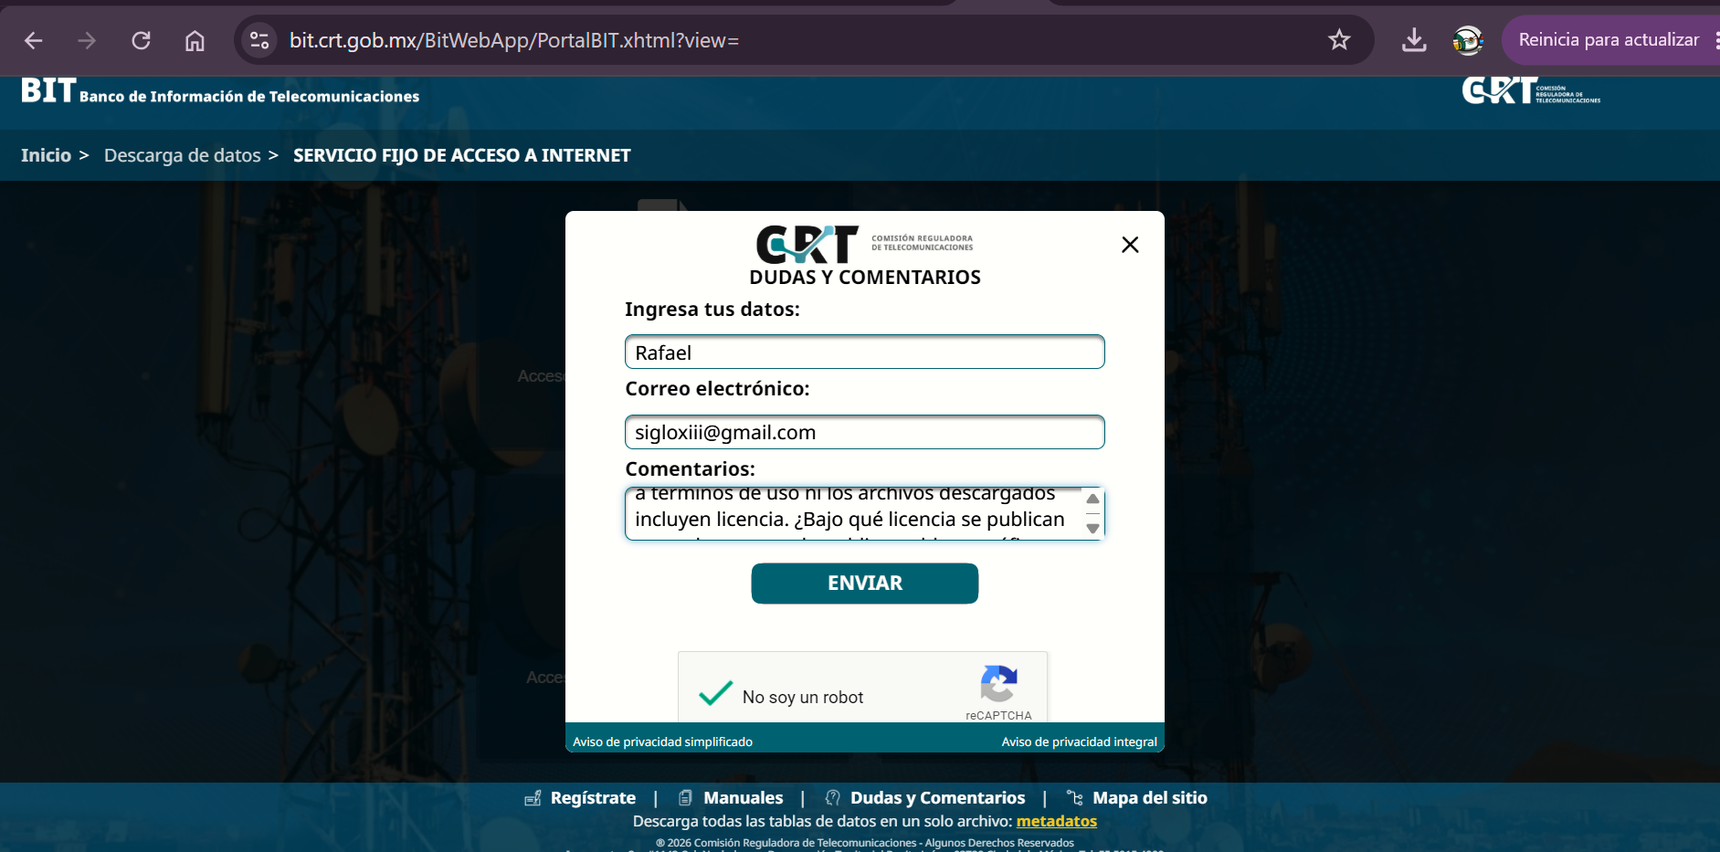
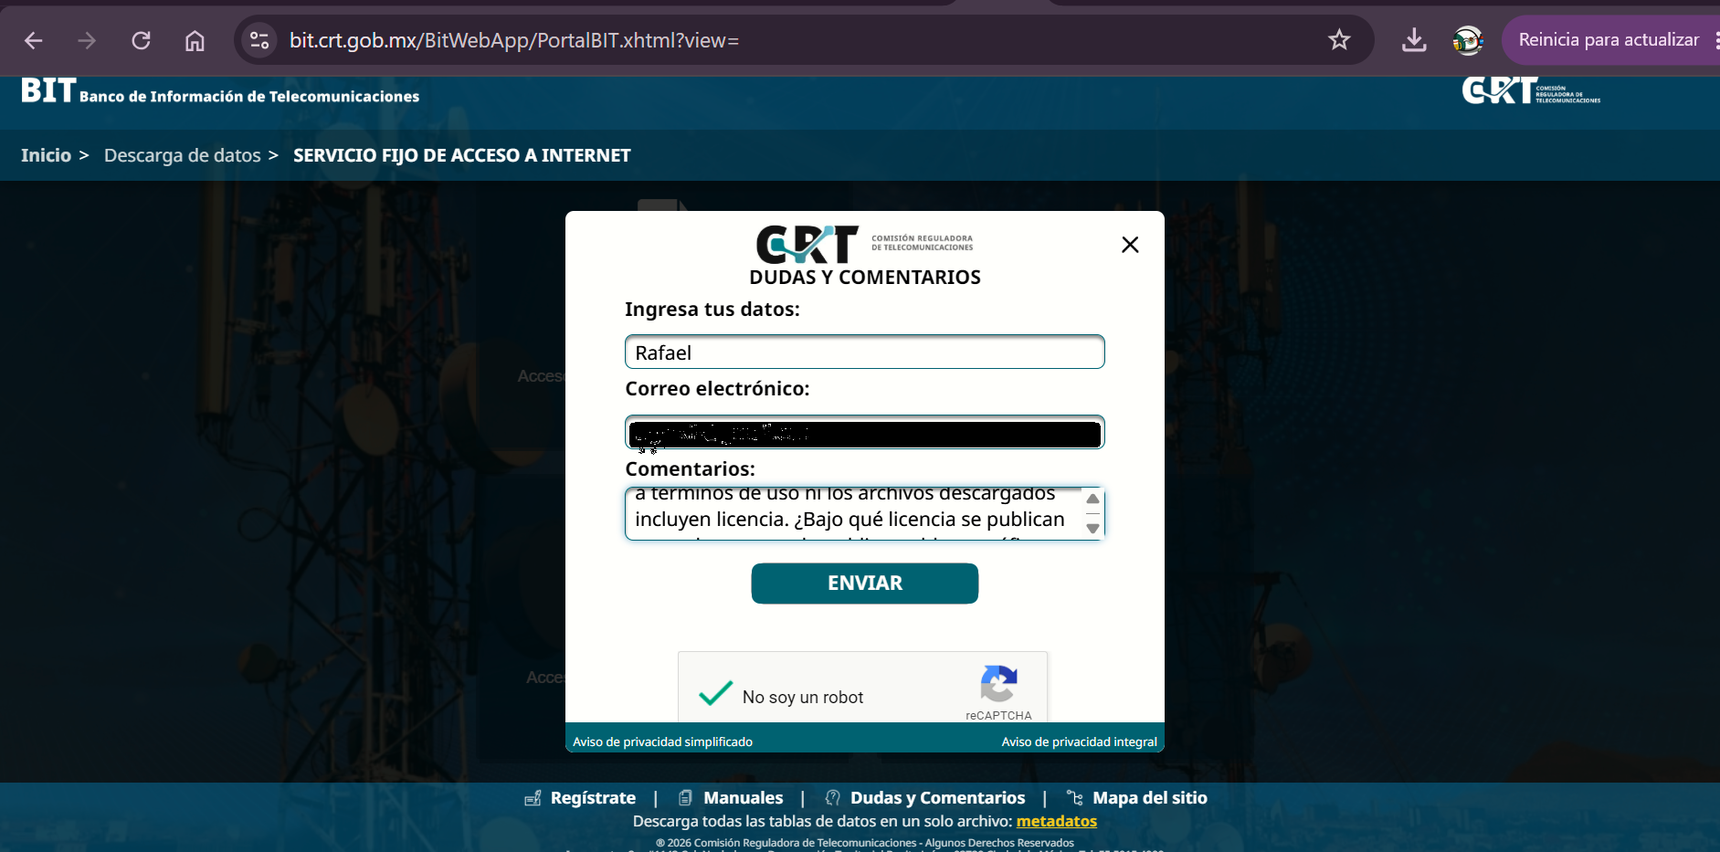
Add report cross-check script, fix stale docs and redact captures
Add sql/common/step_8b.sql with the report cross-checks (P1 to P6) and the pipeline row counts. Add the step 4 section and the P5/P6 evidence to the run log, update the docs index, mark Ookla as not used in the
README, rename README.ES.md to README.es.md so the links resolve, and
redact the email and the machine name from three captures.

Changed region(s): [[0.3388, 0.4973, 0.6468, 0.5284]]

diff --git a/README.ES.md b/README.ES.md
@@ -99,7 +99,7 @@ Las etapas de arriba describen cómo fluyen los datos. Las fases de abajo descri
 
 ---
 
-## Exploración inicial de los datos: México
+## Exploración de los datos: México
 
 La investigación de las fuentes candidatas está completa, y los cinco archivos de la PROFECO se descargaron y revisaron en Power Query. El archivo base (36,034 filas) se cargó en SQL Server y se perfiló con `step_2.sql`: los cuatro criterios de la compuerta de factibilidad se cumplen (decisión D1, aceptada el 2026-10-27). El BIT da los accesos de banda ancha fija por grupo operador y estado hasta diciembre de 2024, por lo que las tasas por 100,000 accesos se limitan a 2022 a 2024. La tabla del BIT se limpió en `clean.bit_access` (592,281 filas, una etiqueta de operador por fila), y los accesos de diciembre de Telmex, Izzi, Megacable y Total Play son los denominadores. La evidencia y los detalles de cada archivo están en [`docs/sources/MX_profeco.md`](docs/sources/MX_profeco.md).
 
@@ -112,7 +112,7 @@ La investigación de las fuentes candidatas está completa, y los cinco archivos
 | IFT *Manual de definiciones de los indicadores estadísticos de telecomunicaciones* (2018) | PDF | Definiciones de los indicadores del BIT y claves de las tablas ([enlace](https://www.ift.org.mx/sites/default/files/contenidogeneral/estadisticas/manualdefinicionesmarzo2018.pdf)) |
 | Reportes trimestrales "Soy Usuario" (IFT/CRT) | Agregados, PDF | Validación cruzada de los resultados |
 | Lineamientos de calidad de servicios fijos (IFT, 2020) | Umbrales regulatorios | Contexto para las referencias |
-| Ookla Open Data / M-Lab (opcional) | Mosaicos / registros de pruebas | Capa técnica opcional |
+| Ookla Open Data / M-Lab (opcional) | Mosaicos / registros de pruebas | No se usó: la capa técnica queda fuera del alcance |
 
 ### Columnas de la PROFECO (23, según el encabezado del archivo)
 
@@ -133,7 +133,7 @@ Los nombres difieren del diccionario de datos publicado (que usa mayúsculas, po
 
 - **Los nombres de proveedor varían** entre registros (por ejemplo, con y sin el sufijo corporativo), por lo que se requiere una tabla de mapeo de normalización.
 - **Formato de fecha:** el diccionario de datos documenta `dd-mm-yyyy`, pero el archivo usa texto con el año primero y guiones (`2022-01-03`), como se confirmó en `step_2.sql` (0 valores con otro formato). Todas las fechas se cargan como texto y se convierten en la capa clean.
-- **Actualizaciones retroactivas:** el publicador advierte que los datos históricos pueden cambiar. Se registrarán una copia congelada y la fecha de descarga.
+- **Actualizaciones retroactivas:** el publicador advierte que los datos históricos pueden cambiar. Las fechas de descarga y el SHA-256 de cada archivo están registrados en `docs/sources/`.
 - **Se publican cinco cortes** y no son versiones simples y crecientes unas de otras. El corte base es `junio_2026`, confirmado por una auditoría de traslape (decisión D4 en `docs/decisions.md`): contiene todos los casos de los tres cortes más antiguos.
 - **No hay una columna completa de tipo de servicio:** `giro` es una clasificación del proveedor y `problema_especial` nombra un servicio en solo el 27% de las filas. El análisis es a nivel de proveedor y lo fijo frente a lo móvil sale de un mapeo de marcas (decisión D7 en `docs/decisions.md`).
 - **Un proveedor por queja:** la base conserva una fila por ID de caso, así que una queja contra dos proveedores (por ejemplo, el operador y el fabricante del teléfono) aparece con uno de ellos. Alrededor del 0.3% de las quejas de operadores fijos puede verse afectado (decisión D4).
@@ -234,7 +234,7 @@ Los archivos crudos y el archivo de Power BI no se publican (decisiones D10 y D1
    - PROFECO, *Quejas en materia de telecomunicaciones*, recurso cerrado en junio de 2026 (`quejas_telecomunicaciones_2022_junio_2026.csv`).
    - CRT, BIT, tabla `TD_ACC_BAF_ITE_VA` (`TD_ACC_BAF_ITE_VA.csv`).
 2. **Ajustar las rutas.** Los scripts `step_1.sql`, `step_5.sql` (y `step_4.sql`, opcional) leen los archivos con una ruta absoluta; cámbiela a su carpeta `data/raw/` y dé permiso de lectura sobre esa carpeta a la cuenta del servicio de SQL Server.
-3. **Ejecutar los scripts en SSMS, en orden:** `step_0` a `step_8` (ver el orden de ejecución en `sql/README.md`). `step_2` y `step_4` son pasos de auditoría: la capa clean no depende de ellos. Cada script termina con revisiones; los valores esperados están en `docs/run_log.md`.
+3. **Ejecutar los scripts en SSMS, en orden:** `step_0` a `step_8` (ver el orden de ejecución en `sql/README.md`) y después `step_8b`, que repite las revisiones cruzadas del reporte y comprueba las filas de todo el pipeline (cada fila debe mostrar OK). `step_2` y `step_4` son pasos de auditoría: la capa clean no depende de ellos. Cada script termina con revisiones; los valores esperados están en `docs/run_log.md`.
 
 | Objeto | Filas esperadas |
 |---|---|
@@ -242,7 +242,8 @@ Los archivos crudos y el archivo de Power BI no se publican (decisiones D10 y D1
 | `stg.bit_acc_baf`, `clean.bit_access` | 592,281 |
 | `mart.fact_accesses` | 19,840 |
 | `mart.dim_date`, `dim_state`, `dim_operator`, `dim_brand`, `dim_reason`, `dim_outcome` | 5,113; 33; 5; 190; 176; 39 |
-| `mart.v_duration_cases` | 12,833 |
+| `mart.v_duration_cases` (todas las marcas fijas) | 12,917 |
+| `mart.v_duration_cases` con `is_main_operator = 1` (los cuatro operadores del reporte) | 12,833 |
 
 4. **Construir el reporte.** En Power BI Desktop, conectar a `.\SQLEXPRESS`, base de datos `complaint_sla`, en modo Import, cargar las ocho tablas de `mart` y seguir `powerbi/build_guide.md` (modelo, 26 medidas, páginas de validación y las seis páginas del reporte). Cada medida tiene un valor de referencia de SQL para comparar.
 5. **Verificar el resultado** contra el PDF `powerbi/complaint_sla_report.pdf` y las capturas en `docs/img/` (`powerbi_page_01.png` a `powerbi_page_06.png`).

diff --git a/README.md b/README.md
@@ -98,7 +98,7 @@ The pipeline stages above describe how the data flow. The project phases below d
 
 ---
 
-## Initial dataset exploration: México
+## Dataset exploration: México
 
 Desk research on the candidate sources is complete, and the five PROFECO files were downloaded and inspected in Power Query. The base file (36,034 rows) was loaded into SQL Server and profiled with `step_2.sql`: the four criteria of the feasibility gate are met (decision D1, accepted on 2026-10-27). BIT gives fixed broadband accesses by operator group and state up to December 2024, so rates per 100,000 accesses are limited to 2022 to 2024. The BIT table was cleaned into `clean.bit_access` (592,281 rows, one operator label per row), and the December accesses of Telmex, Izzi, Megacable and Total Play are the denominators. The evidence and the details of each file are in [`docs/sources/MX_profeco.md`](docs/sources/MX_profeco.md).
 
@@ -111,7 +111,7 @@ Desk research on the candidate sources is complete, and the five PROFECO files w
 | IFT *Manual de definiciones de los indicadores estadísticos de telecomunicaciones* (2018) | PDF | Definitions of the BIT indicators and table keys ([link](https://www.ift.org.mx/sites/default/files/contenidogeneral/estadisticas/manualdefinicionesmarzo2018.pdf)) |
 | "Soy Usuario" quarterly reports (IFT/CRT) | Aggregated, PDF | Cross-validation of results |
 | Fixed-service quality guidelines (IFT, 2020) | Regulatory thresholds | Context for benchmarks |
-| Ookla Open Data / M-Lab (optional) | Tiles / test records | Optional technical layer |
+| Ookla Open Data / M-Lab (optional) | Tiles / test records | Not used: the technical layer is out of scope |
 
 ### PROFECO columns (23, as found in the file header)
 
@@ -132,7 +132,7 @@ The names differ from the published data dictionary (which uses upper case, for 
 
 - **Provider names vary** between records (for example, with and without the corporate suffix), so a normalization mapping table is required.
 - **Date format:** the data dictionary documents `dd-mm-yyyy`, but the file uses year-first text with dashes (`2022-01-03`), as confirmed in `step_2.sql` (0 values with another format). All dates are loaded as text and converted in the clean layer.
-- **Retroactive updates:** the publisher warns that historical data may change. A frozen copy and the download date will be recorded.
+- **Retroactive updates:** the publisher warns that historical data may change. The download dates and the SHA-256 of every file are recorded in `docs/sources/`.
 - **Five cuts are published** and they are not simple, growing versions of one another. The base cut is `junio_2026`, confirmed by an overlap audit (decision D4 in `docs/decisions.md`): it contains every case of the three older cuts.
 - **No complete service-type column:** `giro` is a provider classification, and `problema_especial` names a service in only 27% of the rows. The analysis is at provider level, and fixed vs mobile comes from a brand mapping (decision D7 in `docs/decisions.md`).
 - **One provider per complaint:** the base keeps one row per case ID, so a complaint against two providers (for example the operator and the phone maker) appears with one of them. About 0.3% of the fixed-operator complaints may be affected (decision D4).
@@ -234,7 +234,7 @@ The raw files and the Power BI file are not published (decisions D10 and D16), s
    - PROFECO, *Quejas en materia de telecomunicaciones*, resource closed in June 2026 (`quejas_telecomunicaciones_2022_junio_2026.csv`).
    - CRT, BIT, table `TD_ACC_BAF_ITE_VA` (`TD_ACC_BAF_ITE_VA.csv`).
 2. **Adjust the paths.** The scripts `step_1.sql`, `step_5.sql` (and `step_4.sql`, optional) read the files with an absolute path; change it to your `data/raw/` folder and give read permission on that folder to the SQL Server service account.
-3. **Run the scripts in SSMS, in order:** `step_0` to `step_8` (see the execution order in `sql/README.md`). `step_2` and `step_4` are audit steps: the clean layer does not depend on them. Every script ends with checks; the expected values are in `docs/run_log.md`.
+3. **Run the scripts in SSMS, in order:** `step_0` to `step_8` (see the execution order in `sql/README.md`), and then `step_8b`, which repeats the cross-checks of the report and checks the row counts of the whole pipeline (every row must show OK). `step_2` and `step_4` are audit steps: the clean layer does not depend on them. Every script ends with checks; the expected values are in `docs/run_log.md`.
 
 | Object | Expected rows |
 |---|---|
@@ -242,7 +242,8 @@ The raw files and the Power BI file are not published (decisions D10 and D16), s
 | `stg.bit_acc_baf`, `clean.bit_access` | 592,281 |
 | `mart.fact_accesses` | 19,840 |
 | `mart.dim_date`, `dim_state`, `dim_operator`, `dim_brand`, `dim_reason`, `dim_outcome` | 5,113; 33; 5; 190; 176; 39 |
-| `mart.v_duration_cases` | 12,833 |
+| `mart.v_duration_cases` (all fixed brands) | 12,917 |
+| `mart.v_duration_cases` with `is_main_operator = 1` (the four operators of the report) | 12,833 |
 
 4. **Build the report.** In Power BI Desktop connect to `.\SQLEXPRESS`, database `complaint_sla`, in Import mode, load the eight `mart` tables and follow `powerbi/build_guide.md` (model, 26 measures, validation pages and the six report pages). Every measure has a reference value from SQL to compare with.
 5. **Check the result** against the PDF `powerbi/complaint_sla_report.pdf` and the screenshots in `docs/img/` (`powerbi_page_01.png` to `powerbi_page_06.png`).

diff --git a/docs/run_log.md b/docs/run_log.md
@@ -13,6 +13,7 @@ Record of each script execution on the local instance (SQL Server 2025 Express, 
 | 6 | `sql/mx_bit/step_6.sql` | 2026-11-01 | Done (`clean.bit_access`, 592,281 rows; checks 6.1 to 6.6b); D12 and D13 accepted |
 | 7 | `sql/common/step_7.sql` | 2026-11-05 | Done (mart: 6 dimensions, 2 facts; checks 7.3a to 7.3f); D14 accepted |
 | 8 | `sql/common/step_8.sql` | 2026-11-06 | Done (checks 8.1 to 8.9; view `mart.v_duration_cases`); D15 accepted |
+| 8b | `sql/common/step_8b.sql` | 2026-11-09 | Saved: queries P1 to P6 of the report cross-checks (step 9) and row counts P7. Run once to confirm the expected values |
 | 9 | `powerbi/build_guide.md` | 2026-11-06 to 2026-11-08 | Done (model, 26 measures validated against SQL, 6 report pages, PDF); D16 accepted |
 
 ## Step 0: database and schemas
@@ -114,6 +115,18 @@ Results (images `step_3_check_14.png` to `step_3_check_17.png` and the new `step
 
 The revision 2 is finished.
 
+## Step 4: overlap audit of the five PROFECO cuts (`sql/mx_profeco/step_4.sql`, 2026-10-31)
+
+Compares the four older cuts with the base file `junio_2026` by case ID (decision D4). Evidence: `step_4_check_01.png` to `step_4_check_06.png` and the follow-up checks 4.7 to 4.11. The detail of each check, with its capture, is in `docs/sources/MX_profeco.md` (section "Overlap audit of the five cuts").
+
+| Result | Value |
+|---|---|
+| Base file | 36,034 rows and 36,034 distinct IDs |
+| Older cuts (`2022_2025`, `ene_2026`, `may_2026`) | Every case is in the base; `2022_2025` and `may_2026` have repeated IDs |
+| `jul2026` | 29,966 cases in the base, 1,960 only in the cut (closed in June and July 2026) and 6,068 base cases missing: a newer publication, not a corrected version |
+| Dates | Differ only in format (`2025/02/18` against `2025-02-18`) |
+| Decision | `junio_2026` is the base file (D4); the audit tables stay in `stg` and are read-only for the pipeline |
+
 ## Step 5: BIT load (`sql/mx_bit/step_5.sql`, 2026-11-01)
 
 Loads `TD_ACC_BAF_ITE_VA.csv` (downloaded 2026-10-26) into `stg.bit_acc_baf` as text. Evidence: `step_5_check_00.png` to `step_5_check_08p2.png`; the results are summarized in `docs/sources/MX_profeco.md`.
@@ -207,6 +220,9 @@ Import mode to the `mart` tables of `complaint_sla`. Every measure was checked a
 | B1 lot 2 | Outcomes, conciliation rate and `% Within SLA` | Equal checks 8.6, 8.7 and 8.9 | ![03a](img/powerbi_check_03a.png) ![03b](img/powerbi_check_03b.png) ![03c](img/powerbi_check_03c.png) |
 | B1 lot 3 | Accesses, rate per 100,000 and data-quality cards | Accesses of December 2024 29,003,240 (27,458,704 + 1,544,536); combined rate 16.60, 11.51 and 9.33 per 100,000 (2022 to 2024); `Central Office Share` 49.6% (fixed broadband) and 54.9% (all complaints), as SQL checks P1 and P2 | ![check 04](img/powerbi_check_04.png) ![P1/P2](img/step_7_check_09.png) |
 | B3 page 5 | Top 10 claim types and states | Same values as SQL checks P3 and P4: Ciudad de México 7,748, Estado de México 610, Yucatán 379; Cobro Indebido 4,343, Entrega del Producto o Servicio 4,335, Contratos 3,682 | ![P3/P4](img/step_7_check_10.png) |
+| B3 page 5 | Total Play spike in 2025 | Monthly complaints (P5): 2024 between 27 and 62 a month (579 in the year); 2025 April 166, May 128, June 109, July 100 (1,017 in the year). By claim type, April to July (P6): 503 cases in 2025 against 200 in 2024; Contratos 209 against 84 and Cobro Indebido 201 against 51 explain 275 of the 303 cases of increase (91%) | ![P5](img/step_7_check_11.png) ![P6](img/step_7_check_12.png) |
+
+The queries of the checks P1 to P6 (and the row counts P7) are saved in `sql/common/step_8b.sql`; the captures keep the names they had when the report was built (P1 and P2 `step_7_check_09.png`, P3 and P4 `step_7_check_10.png`, P5 `step_7_check_11.png`, P6 `step_7_check_12.png`).
 
 Report pages (screenshots in `docs/img/`, PDF in `powerbi/complaint_sla_report.pdf`, the two `Validation` pages are hidden and not exported):
 
@@ -228,7 +244,7 @@ Incidents and fixes while building the model:
 - **100% bar with an extra segment (Cancelada):** the `IN` filter of `Valid Outcome Cases` overrode the legend; fixed with `KEEPFILTERS`.
 - **Blank calendar years in `Cohort Status`:** fixed with a blank guard on `[Complaints]`.
 - **Page 5:** Ciudad de México was missing from the state chart because of an unexpected filter; it is kept in the chart on purpose, as the D8 warning explains.
-- **`.pbix` pushed by mistake:** removed from the history (soft reset, `--force-with-lease` and `gc`); `*.pbix` and `.pbi/` are in `.gitignore`.
+- **`.pbix` pushed by mistake:** removed from the history (soft reset, `--force-with-lease` and `gc`; evidence in `img/repo_pbix_check_2.png`); `*.pbix` and `.pbi/` are in `.gitignore`.
 
 What the report shows (fixed broadband brands, 13,358 complaints):
 

diff --git a/docs/README.md b/docs/README.md
@@ -1,14 +1,17 @@
 # Documentation
 
-Index of the project documentation. Everything here is written in English.
+Index of the project documentation. It is written in English, except the Spanish versions of the executive summary and of the main README.
 
 ## Contents
 
 | File or folder | Purpose |
 |---|---|
-| [`decisions.md`](decisions.md) | Decision log (D1 to D15): context, options considered, decision and reason |
+| [`decisions.md`](decisions.md) | Decision log (D1 to D16): context, options considered, decision and reason |
 | [`run_log.md`](run_log.md) | Record of each script execution, with its evidence |
 | [`glossary_of_terms.md`](glossary_of_terms.md) | Short definitions of the technical terms used in the project, with the case where each one mattered |
+| [`executive_summary.md`](executive_summary.md) | One-page summary of the project: objective, method, main findings, limitations and deliverables |
+| [`resumen_ejecutivo.md`](resumen_ejecutivo.md) | Spanish version of the executive summary |
+| [`../data/data_dictionary.md`](../data/data_dictionary.md) | Every table and view of the `stg`, `clean` and `mart` layers (grain, rows, columns) |
 | [`sources/`](sources/) | One note per data source (files, evidence, observations, columns and handling rules) and the license record |
 | [`img/`](img/) | Evidence images (screenshots) |
 
@@ -22,20 +25,22 @@ Index of the project documentation. Everything here is written in English.
 1. The [project README](../README.md): scope, business questions and pipeline.
 2. [`decisions.md`](decisions.md): why the project is built the way it is.
 3. [`sources/MX_profeco.md`](sources/MX_profeco.md): what the data look like and how the base file was chosen.
-4. [`run_log.md`](run_log.md): what has been executed so far.
-5. [`sources/licenses.md`](sources/licenses.md): what may be published and how to cite the sources.
+4. [`run_log.md`](run_log.md): what was executed, with its evidence.
+5. [`../data/data_dictionary.md`](../data/data_dictionary.md): the tables created in SQL.
+6. [`sources/licenses.md`](sources/licenses.md): what may be published and how to cite the sources.
 
 ## Conventions
 
 - **Images:** stored in `img/`, with no subfolders. The file name is `<topic>_<name>.png`, in lowercase with underscores. Evidence of a script run is named `step_<N>_<block>.png`, where the block is the number after the dot (block 2.10 of `step_2.sql` is `step_2_10.png`), and checks inside a block add a letter (`step_2_8_a1.png`). From step 3 on, each check is `step_<N>_check_<NN>.png` (for example `step_3_check_06p1.png`), and a check with two result tables adds `p1` and `p2`. Examples: `mx_profeco_fuentes_01.png`, `step_0_results.png`, `step_2_10.png`, `step_3_check_12.png`, `powerbi_overview.png`.
 - **Image links:** relative to the file that uses them (`../img/...` from `sources/`, `img/...` from this folder).
 - **Screenshots:** crop them so that they do not show the machine name, the user name or unrelated content.
-- **Decision log:** every entry has an ID, a date and a status (Open, Provisional, Accepted or Rejected). When a decision changes, the entry is updated and the reason is kept.
+- **Decision log:** every entry has an ID, a date and a status (Open, Provisional, Proposed, Accepted or Rejected). When a decision changes, the entry is updated and the reason is kept.
 - **Source notes:** one per data source, named `<COUNTRY>_<source>.md` (for example `MX_profeco.md`).
 - **Folder depth:** at most two folders in any path of the repository.
 - **SQL techniques:** every advanced technique in a script (CTE, derived table, window function, `CROSS APPLY`, view, temporary table) is explained with a `-- Technique:` comment, and the style rule is in [`../sql/README.md`](../sql/README.md).
 - **Raw data:** never stored here and never versioned (see [`../data/`](../data/)).
 
-## Planned
+## Maintenance
 
-- Executive brief (`executive_brief.md`), written at the end of the project.
+- The English README and its Spanish version (`../README.es.md`) are updated together: a change in one is made in the other in the same commit.
+- The executive summary and its Spanish version follow the same rule.

diff --git a/docs/decisions.md b/docs/decisions.md
@@ -308,7 +308,7 @@ Each entry records the context, the options considered, the decision and the rea
 - **Status:** Accepted
 - **Date:** 2026-11-06
 - **Context:** before the DAX measures are written, the checks 8.1 to 8.7 of `step_8.sql` profiled the resolution time (BQ1, BQ4), the outcomes (BQ2) and the service-level targets. The conciliation process has no official target, so the targets are parameters.
-- **Decision 1, population of the duration:** fixed brands, the four operators, procedure group "Conciliation", valid duration. It has **12,833 cases** (`mart.v_duration_cases`). Queja and the other legal procedures are left out (they are not a conciliation); out of the dashboard scope there are 21,856 more valid conciliation cases.
+- **Decision 1, population of the duration:** fixed brands, the four operators, procedure group "Conciliation", valid duration. It has **12,833 cases** (`mart.v_duration_cases` filtered with `is_main_operator = 1`; the view has 12,917 because it also keeps the brands grouped as Other). Queja and the other legal procedures are left out (they are not a conciliation); out of the dashboard scope there are 21,856 more valid conciliation cases.
 - **Decision 2, batch-closing day:** the 50 cases closed on 2026-03-10 stay in the population (0.4%). Their average duration is longer (Telmex 155 against 105 days, Izzi 88 against 60, Megacable 84 against 42, Total Play 80 against 59), but they are few and their maximum is lower than that of the other cases, so they do not distort the P90. The flag `flag_unusual_close_day` stays for a sensitivity check.
 - **Decision 3, time axis: the filing year (cohort), the same as the volume and the rates.**
   - Options: (A) filing year; (B) close year.

diff --git a/data/data_dictionary.md b/data/data_dictionary.md
@@ -29,7 +29,7 @@ List and description of every table and view of the database `complaint_sla` (in
 | 15 | `mart.dim_outcome` | mart | `step_7.sql` | outcome × conciliation type × procedure group | 39 |
 | 16 | `mart.fact_complaint` | mart | `step_7.sql` | complaint | 36,034 |
 | 17 | `mart.fact_accesses` | mart | `step_7.sql` | month × state × operator | 19,840 |
-| 18 | `mart.v_duration_cases` (view) | mart | `step_8.sql` | complaint of the duration population | 12,833 |
+| 18 | `mart.v_duration_cases` (view) | mart | `step_8.sql` | complaint of the duration population | 12,917 (12,833 for the four main operators) |
 
 ## Lineage
 
@@ -102,7 +102,7 @@ Two fact tables share three dimensions (`dim_date`, `dim_state`, `dim_operator`)
 
 | View | Description |
 |---|---|
-| `mart.v_duration_cases` | The population of the duration measures: fixed brands (`in_dashboard_scope = 1`), valid duration and Conciliation group, with operator, brand, filing and close year, days, outcome and batch-closing flag. Every check of `step_8.sql` reads it, so all use the same rules (D15). |
+| `mart.v_duration_cases` | The population of the duration: fixed brands (`in_dashboard_scope = 1`), valid duration and Conciliation group, with operator, brand, filing and close year, days, outcome and batch-closing flag. It keeps the brands grouped as Other (12,917 cases); the report adds `is_main_operator = 1` (12,833 cases). Every check of `step_8.sql` reads it, so all use the same rules (D15). |
 
 ## Objects that exist only in Power BI (not in SQL Server)
 

diff --git a/sql/README.md b/sql/README.md
@@ -40,6 +40,7 @@ sql/
 | 6 | `mx_bit/step_6.sql` | Clean layer of the BIT: `clean.bit_access` (types, date, state code, operator, flags) |
 | 7 | `common/step_7.sql` | Mart layer (star schema): six dimensions and two fact tables for Power BI |
 | 8 | `common/step_8.sql` | Validation queries of the measures (duration, outcomes, service-level grid); one view, `mart.v_duration_cases` |
+| 8b | `common/step_8b.sql` | Cross-checks of the Power BI report (P1 to P6: central office share, rate per 100,000, top 10 states and claim types, Total Play spike) and row counts of the whole pipeline with an OK/ERROR status |
 
 ## Requirements
 
